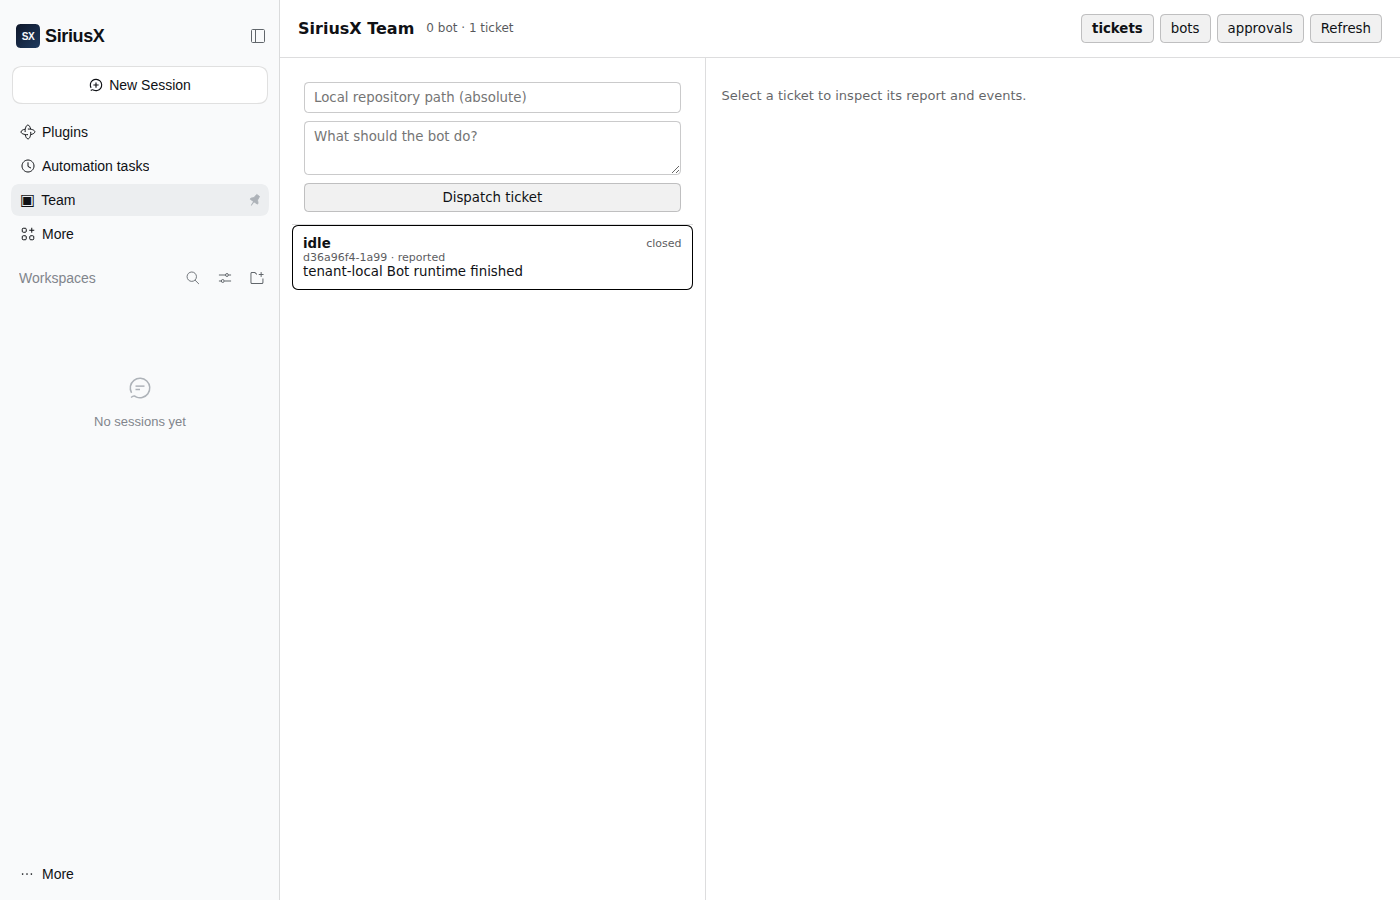
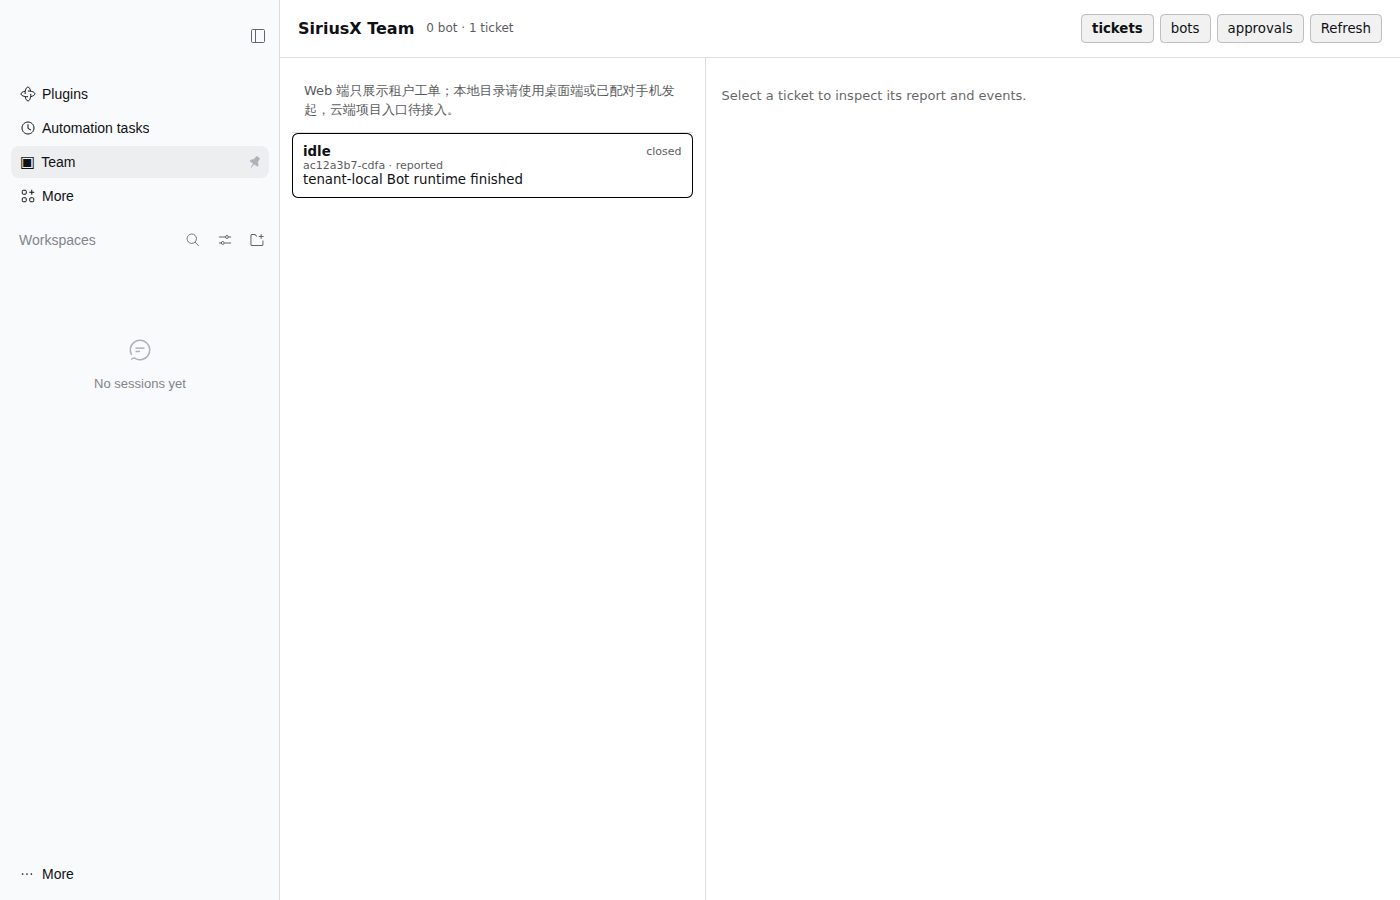
feat: hide native conversation and local paths in web gateway mode

diff --git a/plugins/client-ui-team/src/client/index.tsx b/plugins/client-ui-team/src/client/index.tsx
@@ -198,17 +198,23 @@ function TicketPanel(): ReactNode {
       {tab === 'tickets' ? (
         <div style={styles.body} className="sx-team-body">
           <div style={{ ...styles.list, display: 'flex', flexDirection: 'column' }} className="sx-team-list">
-            <div style={styles.form}>
-              <input style={styles.input} placeholder="Local repository path (absolute)" value={repo} onChange={event => setRepo(event.target.value)} />
-              <textarea style={{ ...styles.input, minHeight: 54 }} placeholder="What should the bot do?" value={prompt} onChange={event => setPrompt(event.target.value)} />
-              {devices.length === 0 ? null : (
-                <select style={styles.input} value={deviceId} onChange={event => setDeviceId(event.target.value)}>
-                  <option value="">Cloud/local Bot runtime</option>
-                  {devices.map(device => <option key={device.id} value={device.id}>Device: {device.name}</option>)}
-                </select>
-              )}
-              <button style={styles.button} disabled={busy || repo.trim() === '' || prompt.trim() === ''} onClick={() => { void createTicket() }}>Dispatch ticket</button>
-            </div>
+            {gatewayMode() ? (
+              <div style={styles.form}>
+                <p style={{ margin: 0, opacity: 0.7 }}>Web 端只展示租户工单；本地目录请使用桌面端或已配对手机发起，云端项目入口待接入。</p>
+              </div>
+            ) : (
+              <div style={styles.form}>
+                <input style={styles.input} placeholder="Local repository path (absolute)" value={repo} onChange={event => setRepo(event.target.value)} />
+                <textarea style={{ ...styles.input, minHeight: 54 }} placeholder="What should the bot do?" value={prompt} onChange={event => setPrompt(event.target.value)} />
+                {devices.length === 0 ? null : (
+                  <select style={styles.input} value={deviceId} onChange={event => setDeviceId(event.target.value)}>
+                    <option value="">Cloud/local Bot runtime</option>
+                    {devices.map(device => <option key={device.id} value={device.id}>Device: {device.name}</option>)}
+                  </select>
+                )}
+                <button style={styles.button} disabled={busy || repo.trim() === '' || prompt.trim() === ''} onClick={() => { void createTicket() }}>Dispatch ticket</button>
+              </div>
+            )}
             <div style={{ overflow: 'auto' }}>
               {tickets.length === 0 ? <p style={{ opacity: 0.65 }}>No tickets yet. Dispatch one to the local Executor.</p> : null}
               {orderedTickets.map(ticket => (

diff --git a/plugins/brand-siriusx/src/client/index.tsx b/plugins/brand-siriusx/src/client/index.tsx
@@ -37,6 +37,8 @@ function PrivacyBadge(): ReactNode {
 
 function installNativeConversationGate(ctx: ClientContext): void {
   if (typeof document === 'undefined') return
+  let gateway = false
+  try { gateway = localStorage.getItem('siriusx.gatewayAuth') === '1' } catch { /* no storage */ }
   const style = document.createElement('style')
   style.dataset.plugin = 'siriusx-native-conversation-gate'
   style.textContent = `
@@ -52,6 +54,12 @@ function installNativeConversationGate(ctx: ClientContext): void {
   `
   document.head.append(style)
   ctx.effect(() => () => style.remove(), 'siriusx-brand: native conversation gate')
+  // The Web deployment is work-item only; it must not expose the native
+  // conversation or a local-directory entry.
+  if (gateway) {
+    document.documentElement.dataset.siriusxNativeConversation = 'disabled'
+    return
+  }
   try {
     const token = localStorage.getItem('siriusx.controlToken')
     if (token === null || token === '') return

diff --git a/docs/status.md b/docs/status.md
@@ -11,7 +11,7 @@
 | S6 工具网关 | `apps/tool-gateway`、`packages/analytics`、local_dir 上行过滤 | `evidence/S6/` | **部分**：审批/审计/fail-closed/分级/Bot 事件接线/Vault-style 凭据适配通过；真实 KMS/Vault、真实抓包待补 |
 | S7 云执行 | `packages/cloud-executor`、`packages/kernel-acp` | `evidence/S7/` | **部分**：Docker 隔离/卷持久化/ACP-in-Docker/真实 dsh ACP/SQLite 恢复通过；真实 pi、真实 Issue→MR、M2 真崩溃待补 |
 | S8 发布 | `plugins/brand-siriusx`、`deploy/release`、`deploy/offline` | `evidence/S8/` | **骨架**：品牌/图标/打包参数通过；mac/win 签名安装与真机验收待补 |
-| S9 Web | DSH Web Host + Team panel control-plane 模式 | `evidence/S9/` | **部分**：同插件复用、两租户隔离、HttpOnly cookie 同源网关通过；真实 OIDC/云端项目/无原生对话入口待补 |
+| S9 Web | DSH Web Host + Team panel control-plane 模式 | `evidence/S9/` | **部分**：同插件复用、两租户隔离、HttpOnly cookie 同源网关、无原生对话/本地目录入口通过；真实 OIDC/云端项目待补 |
 | S10 手机 | Team panel 响应式 | `evidence/S10/` | **部分通过**：390×844 响应式、手机审批、配对设备远程 `local_dir` 发起/跟进/打断/离线补发/报告已验；真机待补 |
 
 ## 下一步优先级（不需要人工等待的）

diff --git a/docs/plan.md b/docs/plan.md
@@ -289,7 +289,7 @@ S1 和 S2 互不依赖，两个人可以同时做。S8 和 S9 互不依赖，同
 **任务。**
 
 - [x] 先验一件事：DSH 的 `web` profile 能否在云端按用户提供与桌面端相同的前端和插件。**通过**：真实 Web Host 复用同一 Team 客户端插件。证据：`evidence/S9/README.md`。
-- [x] 如果能，把它部署成 Web 端，工单界面插件原样复用。**部分完成**：Web Host + Team panel 已跑通；控制面 token 已支持 localStorage 注入，正式 SSO/HttpOnly 未接。证据：`evidence/S9/01-control-plane/run.txt`。
+- [x] 如果能，把它部署成 Web 端，工单界面插件原样复用。证据：`evidence/S9/02-gateway/run.txt`（同源 HttpOnly 会话 + 同一 Team 插件）。
 - [x] 如果不能，把工单、Bot 列表、审批这部分做成独立的 Web 应用，按 S4 的应用契约直连 Bot 服务，并修订 roadmap #59。**不适用**：web profile 可复用。
 - [x] 预览地址经带鉴权的反向代理访问。证据：`apps/web-gateway`、`evidence/S9/02-gateway/`（未登录→login，`/v1`→401）。
 

diff --git a/evidence/S9/README.md b/evidence/S9/README.md
@@ -45,12 +45,15 @@ Team panel 现在支持 `localStorage.siriusx.controlToken` 与 `siriusx.control
 - `/v1/*`：把 cookie 换成 Bearer 后代理到 control-plane；
 - 其他路径：代理到 DSH Web Host，并在服务端附加 Host 的 authority-bound cookie；
 - 未登录访问 `/` → `/login`；未登录 `/v1/*` → 401；
-- Team panel 使用同源相对路径，不再把 token 放进可读 localStorage。
+- Team panel 使用同源相对路径，不再把 token 放进可读 localStorage；
+- Web 模式隐藏原生 New Session、发送、工作区与本地目录输入框；
+- Team panel 保留工单列表、详情与审批。
 
 验证：
 
 - 未登录访问 → `/login`；
 - Acme cookie：Team panel 显示 `1 ticket`；
 - Beta cookie：同一 Web Host 下 `0 ticket`；
-- 浏览器无控制台错误。
+- 浏览器无控制台错误；
+- `nativeNewSessionVisible=false`、`localPathVisible=false`。
 - 证据：`02-gateway/run.txt`、`02-gateway/gateway.png`。
